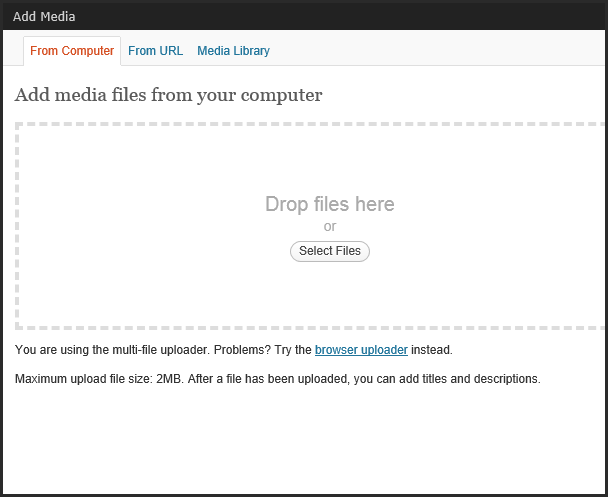
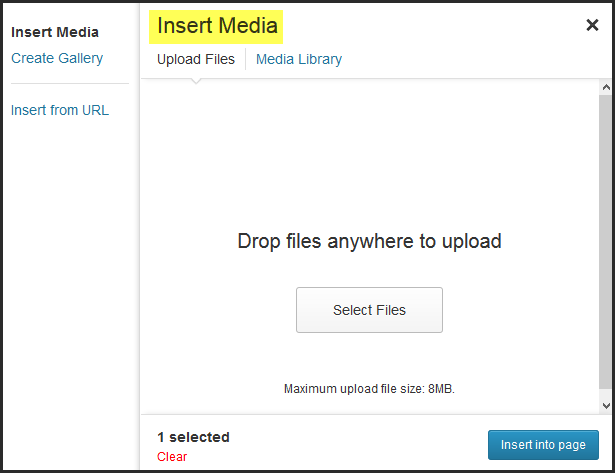
documentation

diff --git a/dev/documentation/index.html b/dev/documentation/index.html
@@ -239,18 +239,20 @@
                 </ul>
                 <a name="addmedia"><h2>Add Media</h2></a>
                 <ul>
-                    <li>User can add or edit media by clicking on the&nbsp;<strong>Upload/Insert</strong> icon above the Tool Bar as shown in Figure 17.&nbsp; Once user clicks on the icon, Add Media box will appear. Uploading media through Edit Page or Add Page is useful when user wishes to upload many media items at once.&nbsp; If user uploads them using Media Library or Add New Media,&nbsp; user will have to manually attach each media item to a particular page or pages. </li>
+                    <li>User can add or edit media by clicking on the&nbsp;<strong>Add Media </strong>button above the Tool Bar as shown in Figure 17.&nbsp; Once user clicks on the icon, Add Media box will appear. Uploading media through Edit Page or Add Page is useful when user wishes to upload many media items to the page.&nbsp; If user uploads them using Media Library or Add New Media,&nbsp; user will have to manually attach each media item to a particular page or pages. </li>
                     <li><img src="gallery/media.png" alt="Upload Media Link"/></li>
                     <li><em><span class="auto-style3">Figure 17.</span></em><span class="auto-style3"> Upload/Insert Media Icon</span></li>
-                    <li>User can add media <strong>From Computer </strong>by dragging the media files to the box that says "Drop files here" or select files by clicking on the <strong>Select Files</strong> button as shown in Figure 18.&nbsp; User can add photos, audio, video, and any other media files just by dragging them into the box. </li>
+                    <li>Add Media box gives user three options along the left-side bar: <strong>Insert Media</strong>, <strong>Create Gallery,</strong> and <strong>Insert from URL</strong>. By default, <strong>Insert Media</strong> is selected when the user clicks on the <strong>Add Media</strong> button and it allows user to <strong>Upload Files</strong>, view <strong>Media Library,</strong> and edit the detail of a particular media file.&nbsp; The screen in Figure 18 will be displayed&nbsp; when <strong>Upload Files </strong>option has been selected.User can add media <strong>From Computer </strong>by dragging the media files to the box that says "Drop files here" or select files by clicking on the <strong>Select Files</strong> button.&nbsp; User can add photos, audio, video, and any other media files just by dragging them into the box. </li>
                     <li><img src="gallery/mediaopen.png" alt="Media Box" /></li>
                     <li><em><span class="auto-style3">Figure 18.</span></em><span class="auto-style3"> Add Media From Computer</span></li>
-                    <li>User can also add media <strong>From URL</strong> by providing the media&#39;s URL link. User must fill out the entry fields marked with * symbol.&nbsp; Other entry fields are optional for the user to fill them in. </li>
+                    <li>User can also <strong>Insert from URL</strong> by providing the media&#39;s URL link.&nbsp; User can add media from online by copying and pasting the link here.&nbsp; User will be directed to this screen when user clicks on <strong>Insert from URL </strong>option from the left-side menu. User must fill out the entry fields marked with * symbol.&nbsp; Other entry fields are optional for the user to fill them in. </li>
                     <li><img src="gallery/url.png" alt="From URL" /></li>
                     <li><em><span class="auto-style3">Figure 19.</span></em><span class="auto-style3"> Add Media From URL</span></li>
-                    <li>User can add media through <strong>Media Library </strong> as shown in Figure 20. Media Library lists all the media that are already uploaded.&nbsp; User can select the media by clicking on the <strong>Show</strong> link and add it to the page.&nbsp; If user would like to find a particular media, user can search for its name in the search box. </li>
+                    <li><strong>Media Library</strong> option allows user to view a list of media items that have been uploaded as shown in Figure 20.&nbsp; From the Insert Media screen, user can select one media item and attach to the page.&nbsp; However once user clicks on the <strong>Create Gallery </strong>option from the side menu, user can select a group of media items to attach to the page.&nbsp; Selected media items are indicated by a check mark on th upper-right corner of a particular item.&nbsp; User can also edit the detail of a particular media when it has been selected.&nbsp; </li>
+                    <li>Underneath the list of media, user can find a small list of selected media items.&nbsp; User may click on <strong>Clear</strong> link to clear the list and select new set of items to add to the page.</li>
+                    <li>If user would like to filter Media Library by media type such as images or videos, user can use the drop-down menu on the tool bar next to search box.&nbsp; Also, user can look for a particular media, by using the search box.&nbsp; </li>
                     <li><img src="gallery/medialibrary.png" alt="Media Library" /></li>
-                    <li><em><span class="auto-style3">Figure 20.</span></em><span class="auto-style3"> Add Media From Media LibraryL</span></li>
+                    <li><em><span class="auto-style3">Figure 20.</span></em><span class="auto-style3"> Add Media From Media Library</span></li>
                 </ul>
                            
                 <a name="attributes"><h2>Attributes</h2></a>
